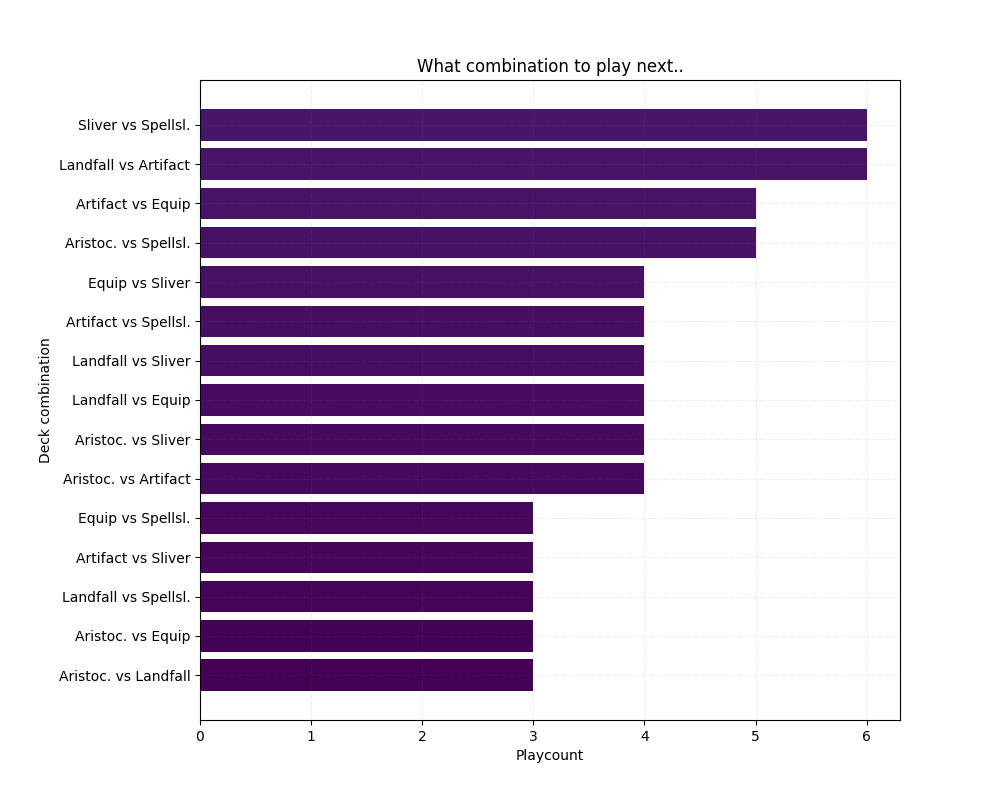
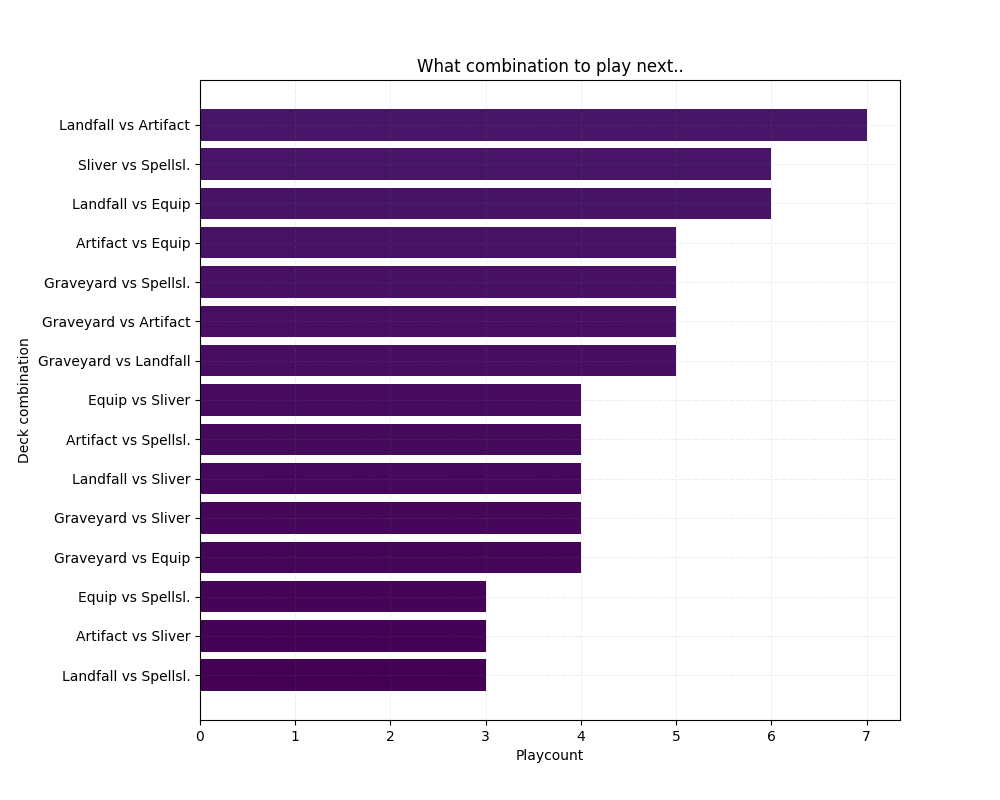
Add game stats

diff --git a/win_loss_calc.py b/win_loss_calc.py
@@ -5,7 +5,7 @@ import numpy as np
 
 np.seterr(divide="ignore", invalid="ignore")
 
-DECK_NAME_ORDER = ["Aristoc.", "Landfall", "Artifact", "Equip", "Sliver", "Spellsl."]
+DECK_NAME_ORDER = ["Graveyard", "Landfall", "Artifact", "Equip", "Sliver", "Spellsl."]
 CMAP = plt.get_cmap("viridis")
 
 
